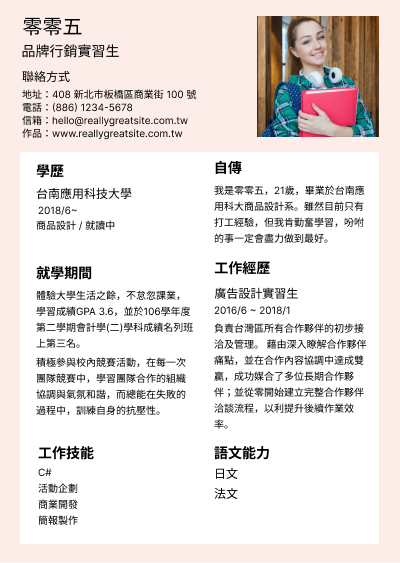
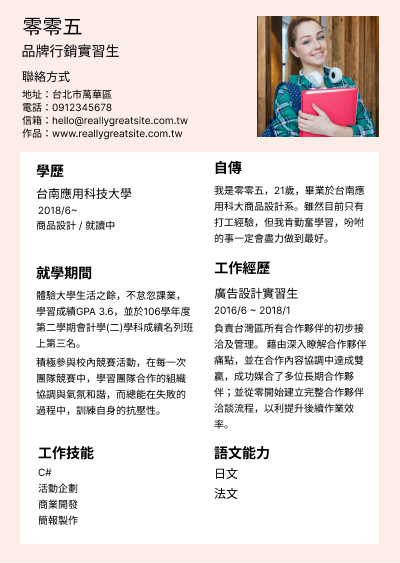
add resume sample pdo,update vue code bye lin

Changed region(s): [[0.12, 0.151, 0.51, 0.2114]]

diff --git a/resume.html b/resume.html
@@ -38,69 +38,90 @@
             <main class="resume">
                 <!-- 履歷範本分類 -->
                 <div-category></div-category>
-               
-                
-                <div class="row resume_sample_row">
+                              
                     <!-- 履歷範本 -->
-                    <div-resume_sample v-for="url in imgURL" >
-                    </div-resume_sample>
-                    
-                </div>
+                    <div-resume_sample v-for="url in imgURL" ></div-resume_sample>                    
 
                 @@include('./layout/pagination.html')
                 
             </main>
+            <resume-zoome_window></resume-zoome_window>
         </div>
     </div>
     @@include('./layout/footer.html')
     <script>
-        Vue.component('div-category',{
-            data(){
+        Vue.component('div-category', {
+            data() {
                 return {
                     categorys: ['全部', '設計', '工程', '管理', '媒體', '銷售', '金融', '行政', '科技', '服務'],
                 }
             },
-            template:`
+            template: `
             <div class="row category">
                     <div v-for="category in categorys" class="col-1"><button class="btna13">{{category}}</button></div>
             </div>`,
         })
 
-        Vue.component('div-resume_sample',{
-            // props: ['img'],
+    let rzw = Vue.component('resume-zoome_window', {
+           props:['imgs'],
             data(){
                 return {
-                    count: 0,
-                    // images:[
-                    // {img_path:'./images/resume/resume_1.jpg'},
-                    // {img_path:'./images/resume/resume_2.jpg'},
-                    // {img_path:'./images/resume/resume_3.jpg'},
-                    // {img_path:'./images/resume/resume_4.jpg'},
-                    // {img_path:'./images/resume/resume_5.jpg'},
-                    // {img_path:'./images/resume/resume_6.jpg'},
-                    // {img_path:'./images/resume/resume_7.jpg'},
-                    // {img_path:'./images/resume/resume_8.jpg'},
-                    // ],
-                    imgURL: ['images/resume/resume_1.jpg','images/resume/resume_2.jpg','images/resume/resume_3.jpg',
-                    'images/resume/resume_4.jpg','images/resume/resume_5.jpg','images/resume/resume_6.jpg',
-                    'images/resume/resume_7.jpg','images/resume/resume_8.jpg'],
+                    img:'',
+                    isPopup: false
                 }
             },
-            methods: {
+            methods:{
+               
                 
             },
             template:
-            `            
-                    <div class="col">
-                        <div class="resume_card">
-                            <img src="images/resume/resume_1.jpg" class="" alt="resume_1">
+                `
+                <div v-if="isPopup">
+                    <div class="m-a-s-k"></div>
+                    <div class="resume_zoom">
+                        <button class=""><i class="fa-solid fa-xmark"></i></button>
+                        <img :src="img">
+                    </div>
+                </div>
+                 
+            `
+        })
 
+        Vue.component('div-resume_sample', {
+            data() {
+                return {
+                    count: 0,
+                    resume_sample: [],
+                }
+            },
+            methods: {
+                getImg(imgurl) {
+                    $data.img = imgurl
+                    console.log()
+                    
+                   
+                }
+            },
+            mounted() {
+
+                fetch('./php/getResume_sample_All.php')
+                    .then(rsp => rsp.json())
+                    .then(resume_sample => {
+                        this.resume_sample = resume_sample;
+                    })
+
+            },
+            template:
+                `   <div class="row resume_sample_row">         
+                    <div class="col" v-for="resume in resume_sample">
+                        <div class="resume_card">
+                            <img :src='resume.IMG_PATH' class="" alt="resume_1">
                             <div class="card_body">
                                 <div class="row">
-                                    <div class="col-2"><button @click="count+=1" class="fa-solid fa-heart"></button></div>
-                                    <div class="col-1 align-self-center"><span>{{count}}</span></div>
+                                    <div class="col-2"><button @click="resume.LIKE_COUNT+=1" class="fa-solid fa-heart"></button></div>
+                                    <div class="col-1 align-self-center"><span>{{resume.LIKE_COUNT}}</span></div>
                                     <div class="offset-7 col-1">
-                                        <button class="resume_zoom_btn">
+                                        <button class="resume_zoom_btn" @click="getImg(resume.IMG_PATH)">
                                             <svg xmlns="http://www.w3.org/2000/svg" width="30" height="30"
                                                 fill="currentColor" class="bi bi-box-arrow-up-right"
                                                 viewBox="0 0 16 16">
@@ -115,16 +136,14 @@
                             </div>
                         </div>
                     </div>
+                </div>
             `
         })
 
         new Vue({
             el: '#app',
             data: {
-                // count: 0,
-                imgURL: ['images/resume/resume_1.jpg','images/resume/resume_2.jpg','images/resume/resume_3.jpg',
-                    'images/resume/resume_4.jpg','images/resume/resume_5.jpg','images/resume/resume_6.jpg',
-                    'images/resume/resume_7.jpg','images/resume/resume_8.jpg'],
+                showp:false
 
             },
 
@@ -133,3 +152,4 @@
 </body>
 
 </html>
+

diff --git a/js/resume.js b/js/resume.js
@@ -300,6 +300,8 @@ $(function () {
    
 
    Avatar_upload()
+   
+  
 })
 
 
@@ -333,3 +335,4 @@ function Avatar_upload(){
 
    })
 }
+

diff --git a/php/getResume_sample_All.php b/php/getResume_sample_All.php
@@ -1,0 +1,19 @@
+<?php
+include('./PDO/Connection.php');
+
+$sql = "select * from resume where model = 2";
+ $statement = $pdo->prepare($sql);
+ $statement->execute();
+
+ if($statement->rowCount() > 0){
+     $member['successful'] = true;
+     $member['message'] = "取得履歷範本資料成功";
+ }else{
+     $member['successful'] = false;
+     $member['message'] = "取得覆歷範本資料失敗";
+ }
+ 
+ echo json_encode($statement->fetchAll());
+
+
+?>
